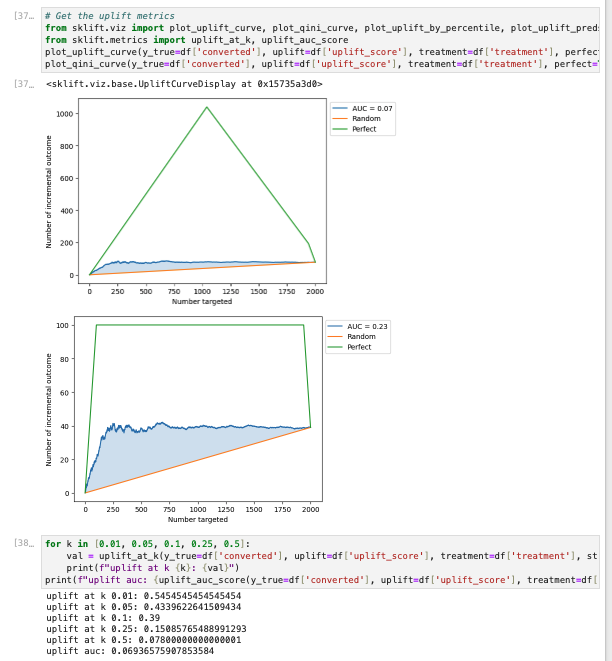
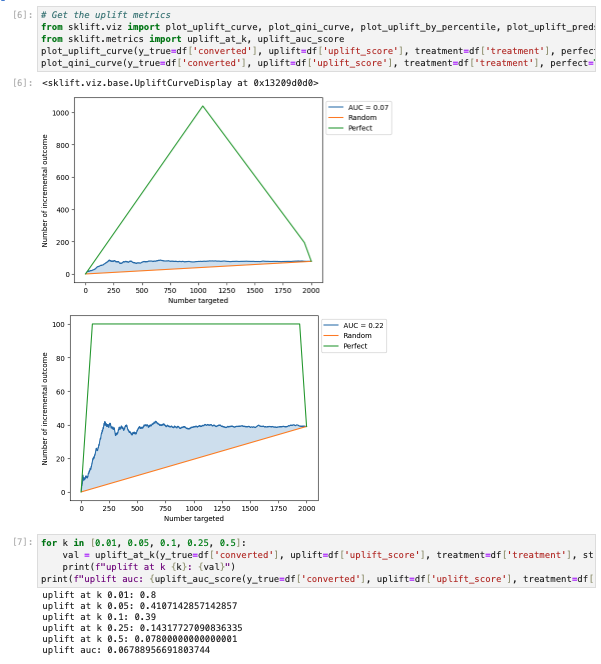
update metrics exploration in uplift model

diff --git a/docs/uplift_model/metrics_exploratio.md b/docs/uplift_model/metrics_exploratio.md
@@ -38,3 +38,33 @@ uplift_score = -| (user_number % converted_parameter) + (random.random() - 0.5) 
 
 Finally, to evaluate our models, we would run some metrics like AUC, blablabla@k.
 ![uplift_model_metrics_first_glance](/docs/uplift_model/images/metrics_exploration/evaluation_metrics_first_glance.png)
+
+In the following sections, we would introduce each metric and how they are computed.
+
+# Uplift at K
+The users (in both control and treatment) would be sorted based on the assigned uplift scores. If `K = 0.01`, it would
+mean we compare the top 1% of users in treatment and control and compute the uplift. We get uplift at K with the
+following equation:
+
+![uplift_model_metrics_first_glance](/docs/uplift_model/images/metrics_exploration/uplift_at_k_equation.png)
+The notation in the above equation is following the
+[link.](https://pylift.readthedocs.io/en/latest/introduction.html#the-qini-curve)
+`n_{t, y=1}` means the number of users who are converted in the top 1% treatment cohort and `n_t` is the
+number of users in the top 1% treatment cohort. 
+However, how to select the users
+could be tricky. It could be top 1% users from treatment and control respectively. Or, it could be top 1% of users from
+the all users. If we select top 1% users from treatment and control respectively, `n_t` and `n_c` should be the same if 
+the number of the numbers of all users in treatment and control are similar, which is `N_t = N_c`. On the other hand,
+this might not be true if the top 1% of users are selected from all users. 
+
+By tracing the [source code](https://github.com/maks-sh/scikit-uplift/blob/master/sklift/metrics/metrics.py#L474)
+of the scikit-uplift computing the metric, we could see the package provide both of them. If strategy is `overall`, the
+metric is computed with top 1% of users from the all users.
+
+In the notebook, numbers are as follows and therefore the uplift@0.01 is 0.8.
+```
+n_{t, y=1} = 10
+n_t = 10
+n_{c, y = 1} = 2
+n_c = 10
+```
